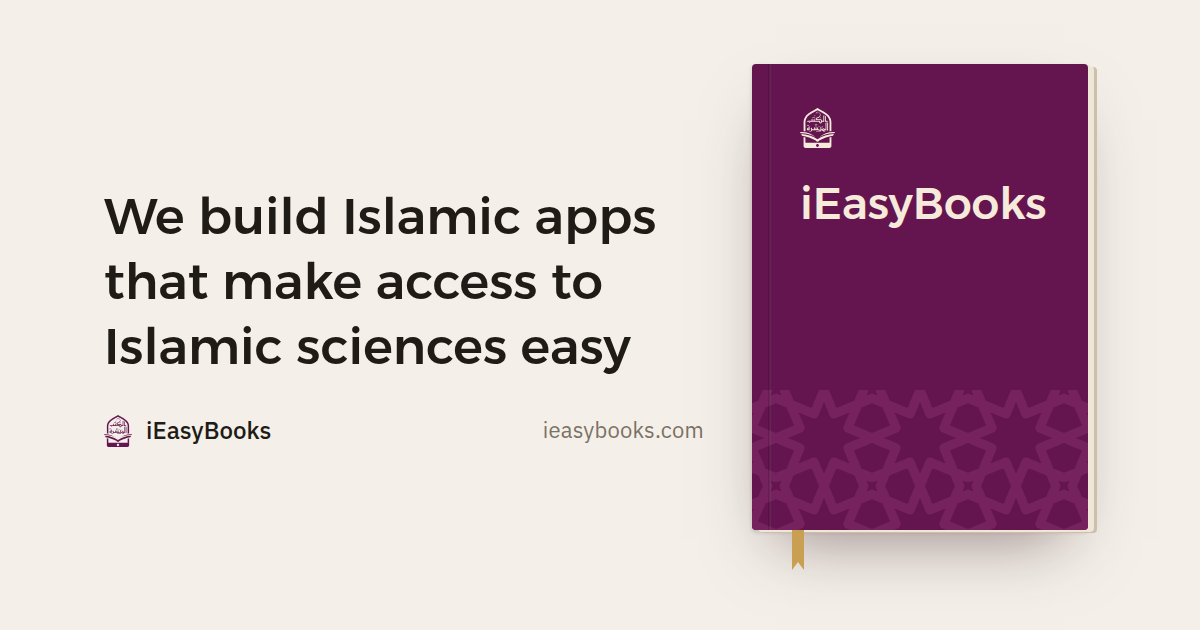
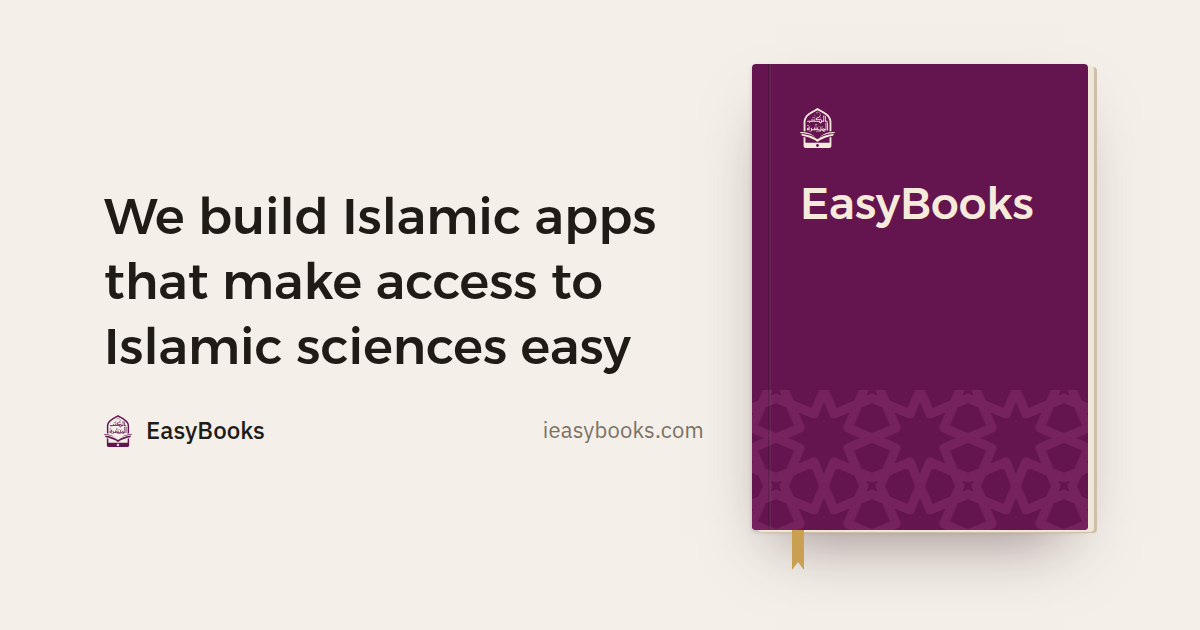
style: use the name EasyBooks, keeping ieasybooks for the domain
Rename iEasyBooks to EasyBooks in the page titles and meta tags, the
top bar, the cover, the title page, the colophon, the back cover, the
manifest and the README, and regenerate the English link preview.
Addresses and account names (the domain, social handles, GitHub org
and app IDs) stay ieasybooks.

Changed region(s): [[0.6475, 0.3016, 0.8942, 0.3619], [0.1233, 0.6635, 0.2467, 0.7238]]

diff --git a/en/index.html b/en/index.html
@@ -4,7 +4,7 @@
   <meta charset="utf-8">
   <meta name="viewport" content="width=device-width, initial-scale=1, viewport-fit=cover">
 
-  <title>iEasyBooks — Islamic Apps</title>
+  <title>EasyBooks — Islamic Apps</title>
   <meta name="description" content="We build Islamic apps that make access to Islamic sciences easy.">
 
   <link rel="alternate" hreflang="ar" href="https://ieasybooks.com/ar/">
@@ -13,7 +13,7 @@
   <link rel="canonical" href="https://ieasybooks.com/en/">
 
   <!-- Open Graph -->
-  <meta property="og:title" content="iEasyBooks — Islamic Apps">
+  <meta property="og:title" content="EasyBooks — Islamic Apps">
   <meta property="og:description" content="We build Islamic apps that make access to Islamic sciences easy.">
   <meta property="og:url" content="https://ieasybooks.com/en/">
   <meta property="og:type" content="website">
@@ -24,7 +24,7 @@
 
   <!-- Twitter Card -->
   <meta name="twitter:card" content="summary_large_image">
-  <meta name="twitter:title" content="iEasyBooks — Islamic Apps">
+  <meta name="twitter:title" content="EasyBooks — Islamic Apps">
   <meta name="twitter:description" content="We build Islamic apps that make access to Islamic sciences easy.">
   <meta name="twitter:image" content="https://ieasybooks.com/assets/og/en.png">
 
@@ -43,7 +43,7 @@
 </head>
 <body>
   <header class="topbar">
-    <a class="topbar__brand" href="#top" data-slug="top"><span class="mark" aria-hidden="true"></span>iEasyBooks</a>
+    <a class="topbar__brand" href="#top" data-slug="top"><span class="mark" aria-hidden="true"></span>EasyBooks</a>
     <div class="topbar__nav">
       <a href="#opening" data-slug="opening">Contents</a>
       <a href="#contact" data-slug="contact">Get in touch</a>
@@ -57,8 +57,8 @@
 
         <div class="cover" id="top">
           <div class="cover__in">
-            <span class="mark cover__mark" role="img" aria-label="The iEasyBooks mark"></span>
-            <h1 class="cover__title">iEasyBooks</h1>
+            <span class="mark cover__mark" role="img" aria-label="The EasyBooks mark"></span>
+            <h1 class="cover__title">EasyBooks</h1>
           </div>
         </div>
 
@@ -109,7 +109,7 @@
               <div class="jadwal">
                 <div class="block">
                   <h2 class="colophon__head" id="t-colophon">Colophon</h2>
-                  <p class="colophon__text">Here ends the book of iEasyBooks: a non-profit initiative that, since 2022, has built free software for students of knowledge, scholars and preachers, making the Islamic sciences easier to reach. All praise is due to God, first and last.</p>
+                  <p class="colophon__text">Here ends the book of EasyBooks: a non-profit initiative that, since 2022, has built free software for students of knowledge, scholars and preachers, making the Islamic sciences easier to reach. All praise is due to God, first and last.</p>
                 </div>
               </div>
               <p class="folio" aria-hidden="true">20</p>
@@ -144,7 +144,7 @@
                 </section>
               </div>
             </div>
-            <p class="backcover__copy">© iEasyBooks 2026</p>
+            <p class="backcover__copy">© EasyBooks 2026</p>
           </div>
           <span class="pg__shade" aria-hidden="true"></span>
         </footer>

diff --git a/ar/index.html b/ar/index.html
@@ -4,7 +4,7 @@
   <meta charset="utf-8">
   <meta name="viewport" content="width=device-width, initial-scale=1, viewport-fit=cover">
 
-  <title>الكتب المُيسّرة — iEasyBooks</title>
+  <title>الكتب المُيسّرة — EasyBooks</title>
   <meta name="description" content="نبني تطبيقات إسلامية تُيسّر الوصول إلى العلوم الشرعية">
 
   <link rel="alternate" hreflang="ar" href="https://ieasybooks.com/ar/">
@@ -13,7 +13,7 @@
   <link rel="canonical" href="https://ieasybooks.com/ar/">
 
   <!-- Open Graph -->
-  <meta property="og:title" content="الكتب المُيسّرة — iEasyBooks">
+  <meta property="og:title" content="الكتب المُيسّرة — EasyBooks">
   <meta property="og:description" content="نبني تطبيقات إسلامية تُيسّر الوصول إلى العلوم الشرعية">
   <meta property="og:url" content="https://ieasybooks.com/ar/">
   <meta property="og:type" content="website">
@@ -24,7 +24,7 @@
 
   <!-- Twitter Card -->
   <meta name="twitter:card" content="summary_large_image">
-  <meta name="twitter:title" content="الكتب المُيسّرة — iEasyBooks">
+  <meta name="twitter:title" content="الكتب المُيسّرة — EasyBooks">
   <meta name="twitter:description" content="نبني تطبيقات إسلامية تُيسّر الوصول إلى العلوم الشرعية">
   <meta name="twitter:image" content="https://ieasybooks.com/assets/og/ar.png">
 

diff --git a/assets/js/book.js b/assets/js/book.js
@@ -189,7 +189,7 @@ function openingSpread() {
     h("div", { class: "opening__body opening__identity" },
       h("p", { class: "opening__basmala", lang: "ar", dir: "rtl" }, "بسم الله الرحمن الرحيم"),
       h("span", { class: "mark", "aria-hidden": "true" }),
-      h("p", { class: "opening__wordmark" }, LOCALE === "ar" ? "الكتب المُيسّرة" : "iEasyBooks"), h("h2", { class: "opening__mission" }, mission)), folio(1), shade());
+      h("p", { class: "opening__wordmark" }, LOCALE === "ar" ? "الكتب المُيسّرة" : "EasyBooks"), h("h2", { class: "opening__mission" }, mission)), folio(1), shade());
   const rows = projects.map((p, i) => ({ slug: p.slug, title: p[`name_${LOCALE}`], n: i * 2 + 3, color: p.color }));
   rows.push({ slug: "colophon", title: STR.end, n: 2 * projects.length + 4 });
   const plate = h("div", { class: "pg pg--contents pg--plate" },

diff --git a/assets/js/projects.js b/assets/js/projects.js
@@ -1,4 +1,4 @@
-// Single source of truth for the projects on the iEasyBooks landing page.
+// Single source of truth for the projects on the EasyBooks landing page.
 // Each entry becomes one spread of "the book" (a text page and a plate), in this order, on both
 // /ar/ and /en/. The newest project comes first.
 //

diff --git a/README.md b/README.md
@@ -1,6 +1,6 @@
 # ieasybooks
 
-The landing page for [iEasyBooks](https://ieasybooks.com), a non-profit initiative making Islamic knowledge easier to reach.
+The landing page for [EasyBooks](https://ieasybooks.com), a non-profit initiative making Islamic knowledge easier to reach.
 
 ## Running locally
 
